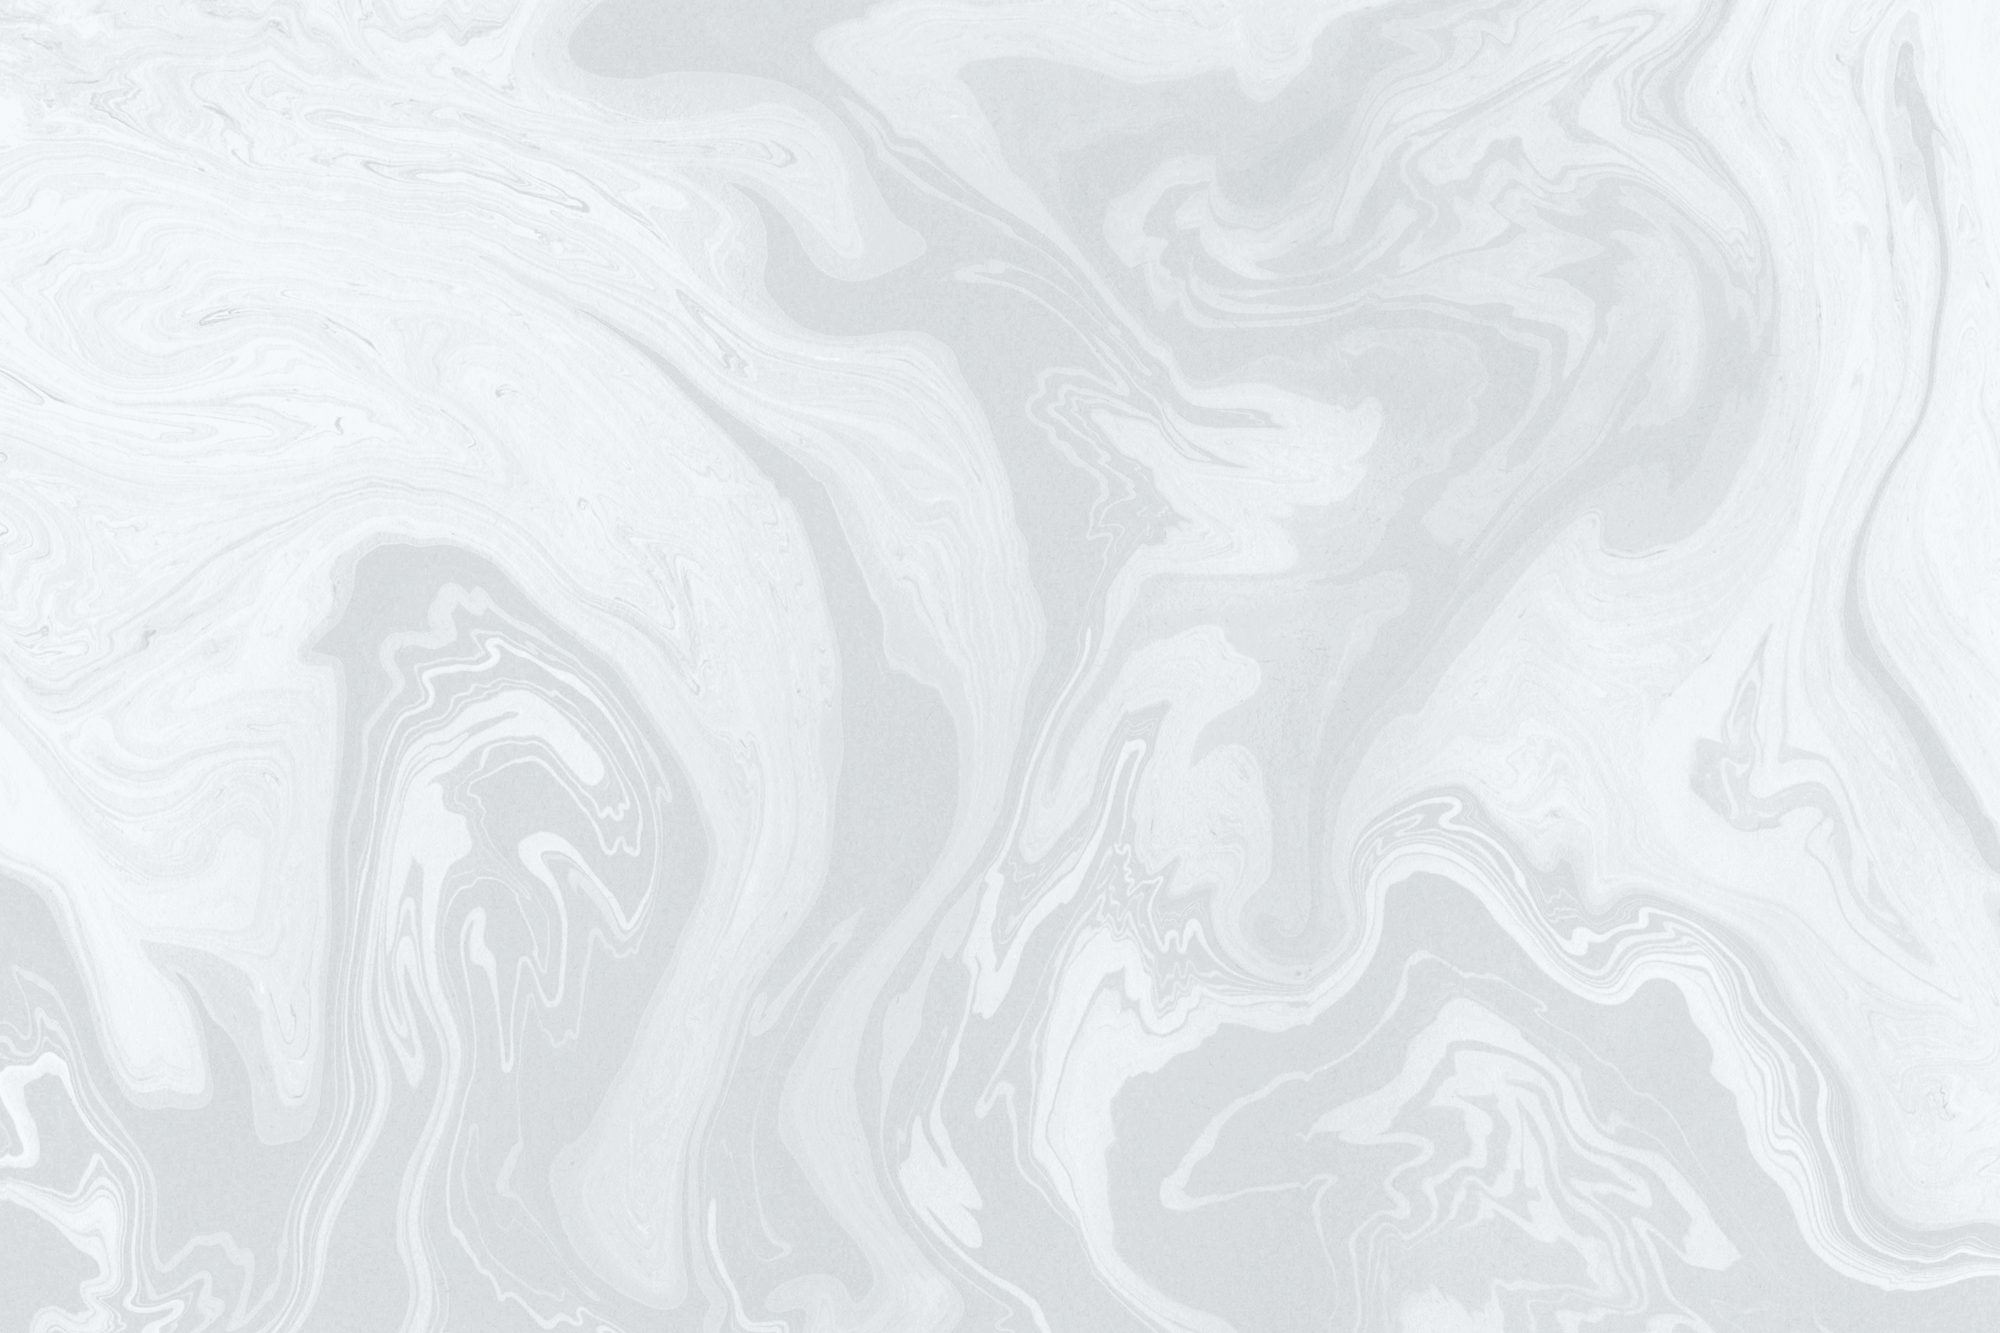
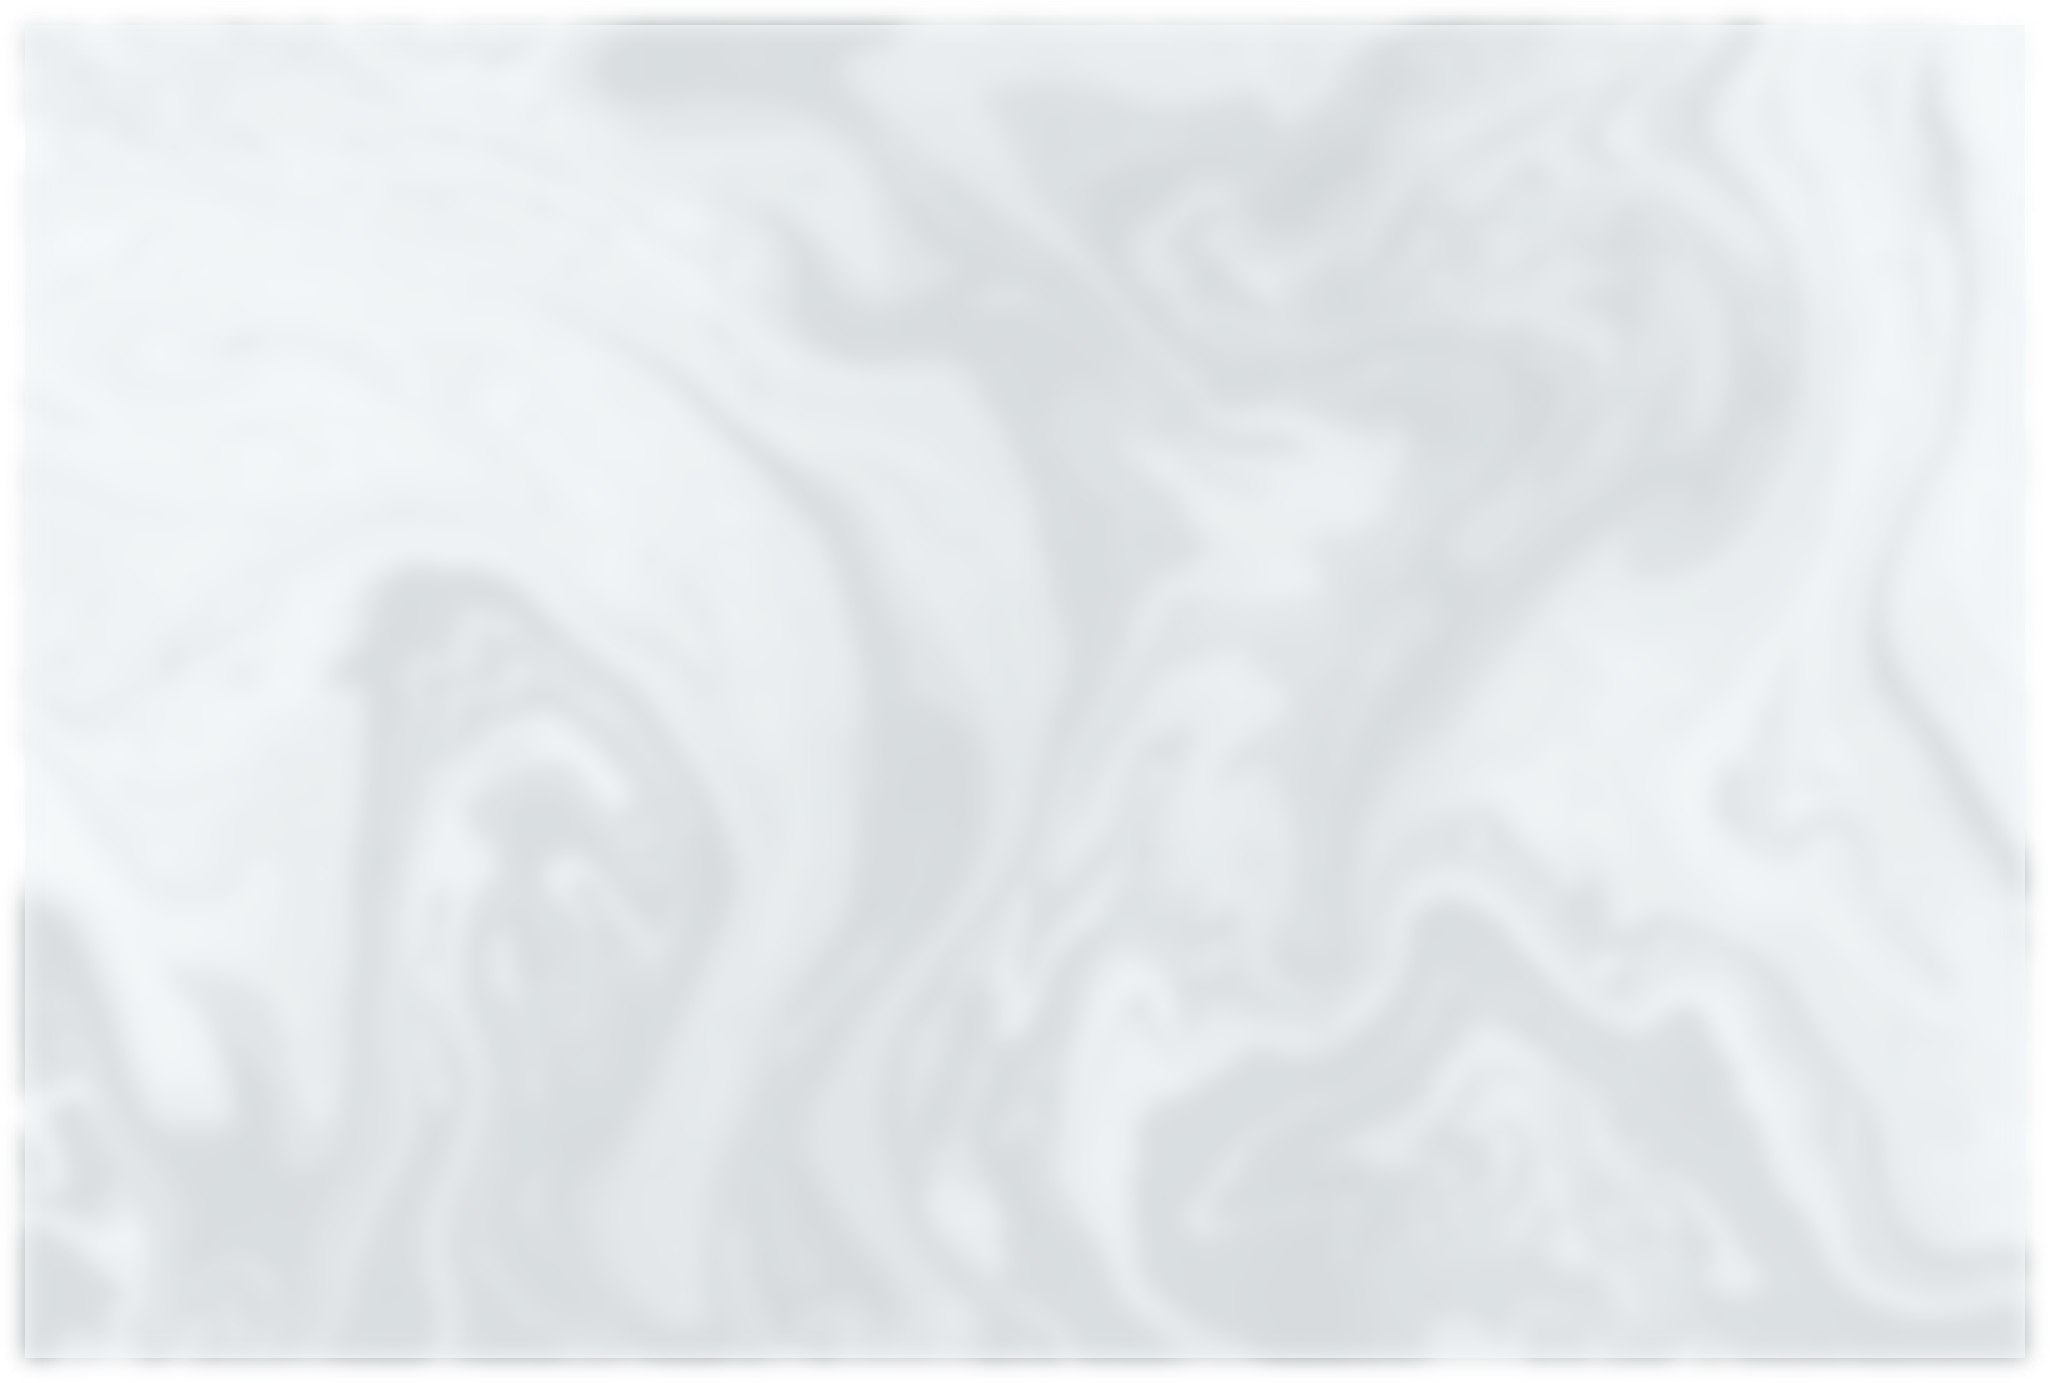
[update] indexページ修正

diff --git a/components/pages/index/menu.vue b/components/pages/index/menu.vue
@@ -4,7 +4,7 @@
       <item
         v-for="(item, key) in menuList"
         :key="key"
-        :ref="item.ref"
+        :url="item.url"
         class="menu__item">
         {{ item.name }}
       </item>
@@ -21,11 +21,11 @@ export default {
   },
   data: () => ({
     menuList: [
-      { name: 'About', ref: 'about' },
-      { name: 'Skills', ref: 'skills' },
-      { name: 'Works', ref: 'works' },
-      { name: 'Blog', ref: 'blog' },
-      { name: 'Contact', ref: 'contact' },
+      { name: 'About', url: 'about' },
+      { name: 'Skills', url: 'skills' },
+      { name: 'Works', url: 'works' },
+      { name: 'Blog', url: 'blog' },
+      { name: 'Contact', url: 'contact' },
     ],
   }),
 };

diff --git a/layouts/full.vue b/layouts/full.vue
@@ -1,5 +1,5 @@
 <template>
-  <div>
+  <div class="fullview">
     <nuxt/>
     <foot class="footer"/>
   </div>
@@ -17,29 +17,7 @@ export default {
 </script>
 
 
-<style lang="scss">
-html {
-  height: 100%;
-}
-
-body {
-  &::before {
-    content: '';
-    position: absolute;
-    top: 0;
-    left: 0;
-    width: 100%;
-    height: 100%;
-    background: inherit;
-    filter: blur(3px);
-  }
-
-  height: 100%;
-  background-image: url('../assets/images/background.png');
-  background-position: center center;
-  background-size: cover;
-}
-
+<style lang="scss" scoped>
 .footer {
   position: absolute;
   bottom: 30px;

diff --git a/layouts/default.vue b/layouts/default.vue
@@ -4,4 +4,15 @@
 
 <style lang="scss">
 @import '../assets/sass/base.scss';
+
+html {
+  height: 100%;
+}
+
+body {
+  height: 100%;
+  background-image: url('../assets/images/background.png');
+  background-position: center center;
+  background-size: cover;
+}
 </style>

diff --git a/components/pages/index/menuItem.vue b/components/pages/index/menuItem.vue
@@ -1,13 +1,17 @@
 <template>
   <li>
-    <slot />
+    <router-link
+      :to="url"
+    >
+      <slot />
+    </router-link>
   </li>
 </template>
 
 <script>
 export default {
   props: {
-    ref: {
+    url: {
       default: '',
       type: String,
     },

diff --git a/nuxt.config.js b/nuxt.config.js
@@ -19,7 +19,7 @@ module.exports = {
   /*
   ** Customize the progress-bar color
   */
-  loading: { color: '#fff' },
+  loading: false,
 
   /*
   ** Global CSS

diff --git a/layouts/error.vue b/layouts/error.vue
@@ -7,6 +7,7 @@
 
 <script>
 export default {
+  layout: 'default',
   props: {
     error: {
       type: Object,
